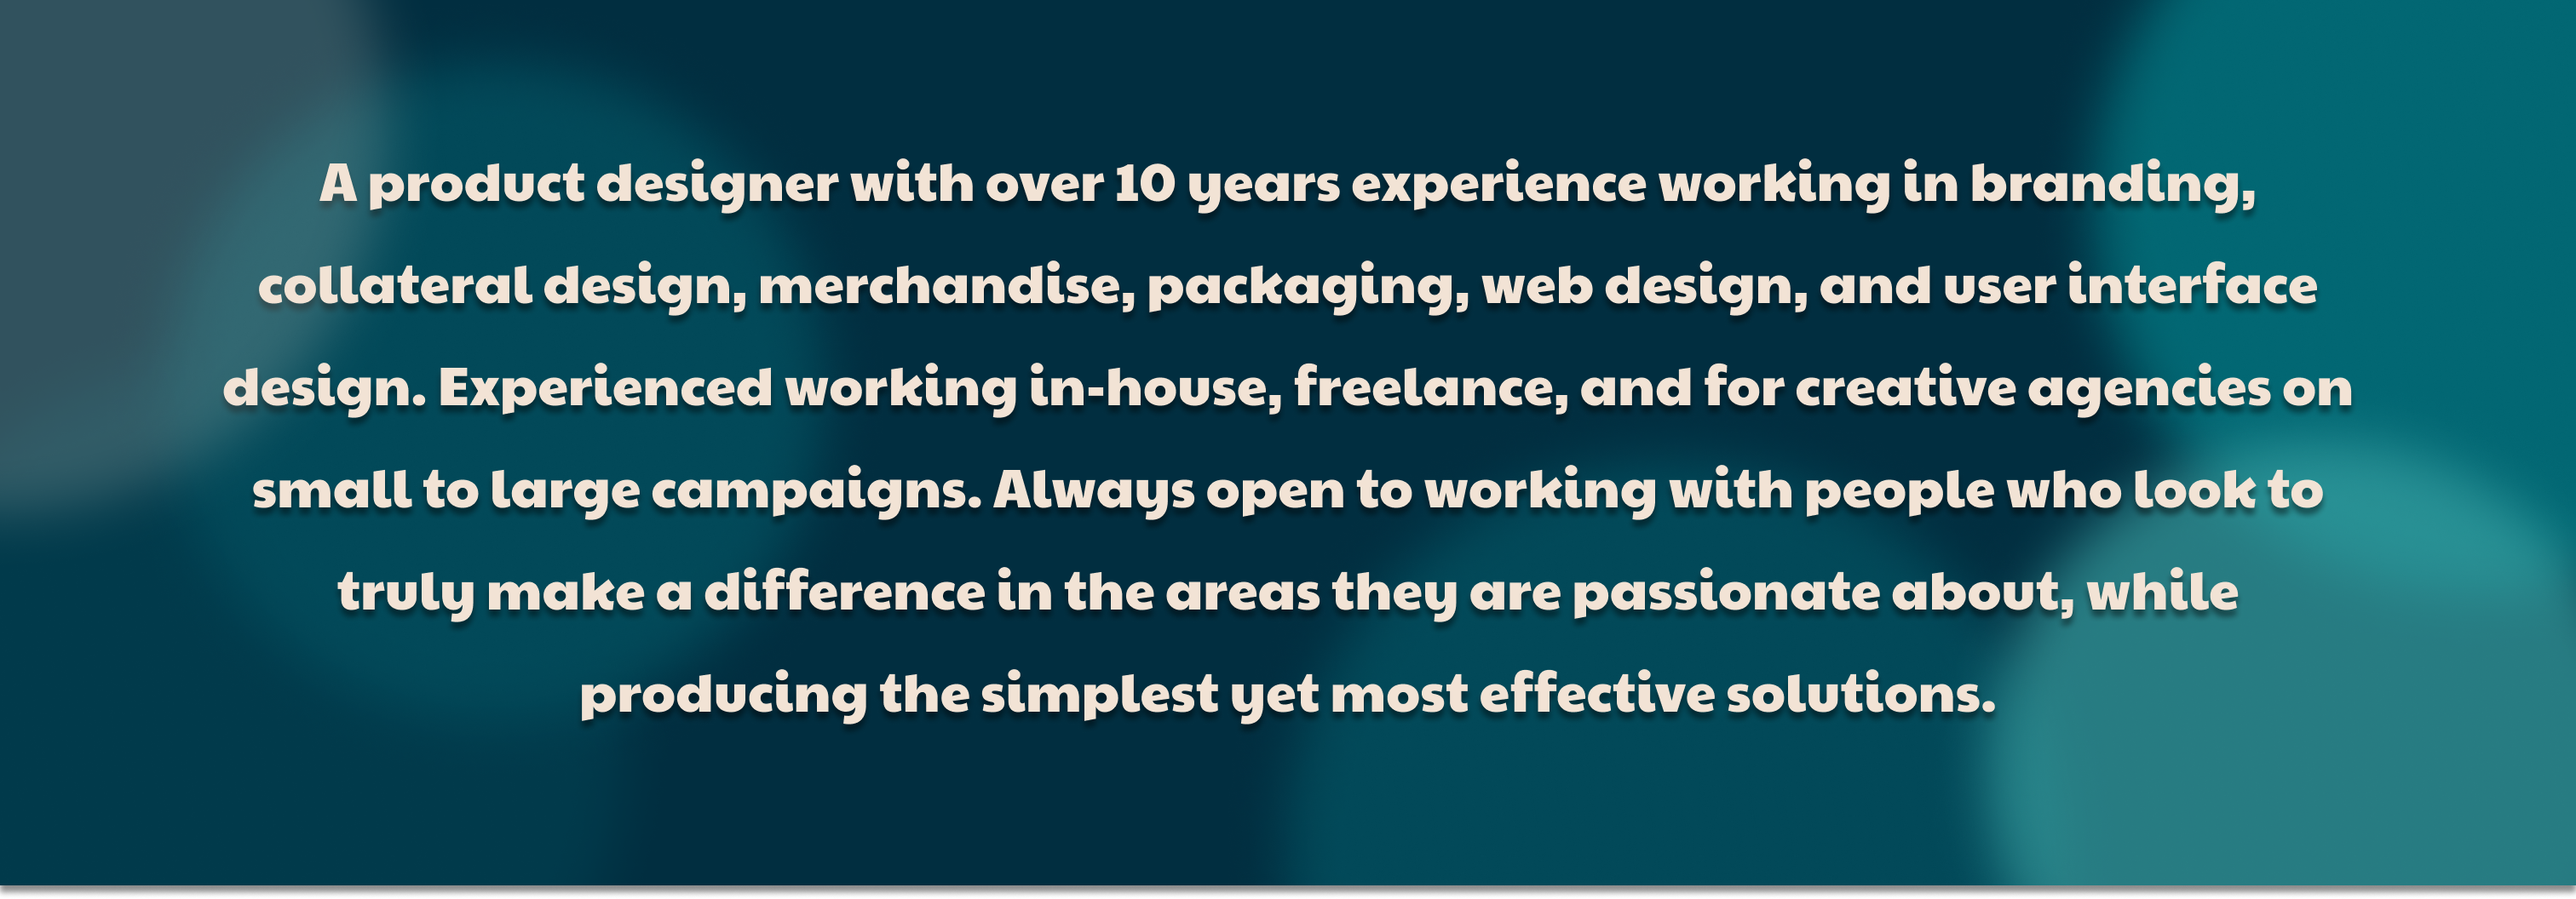
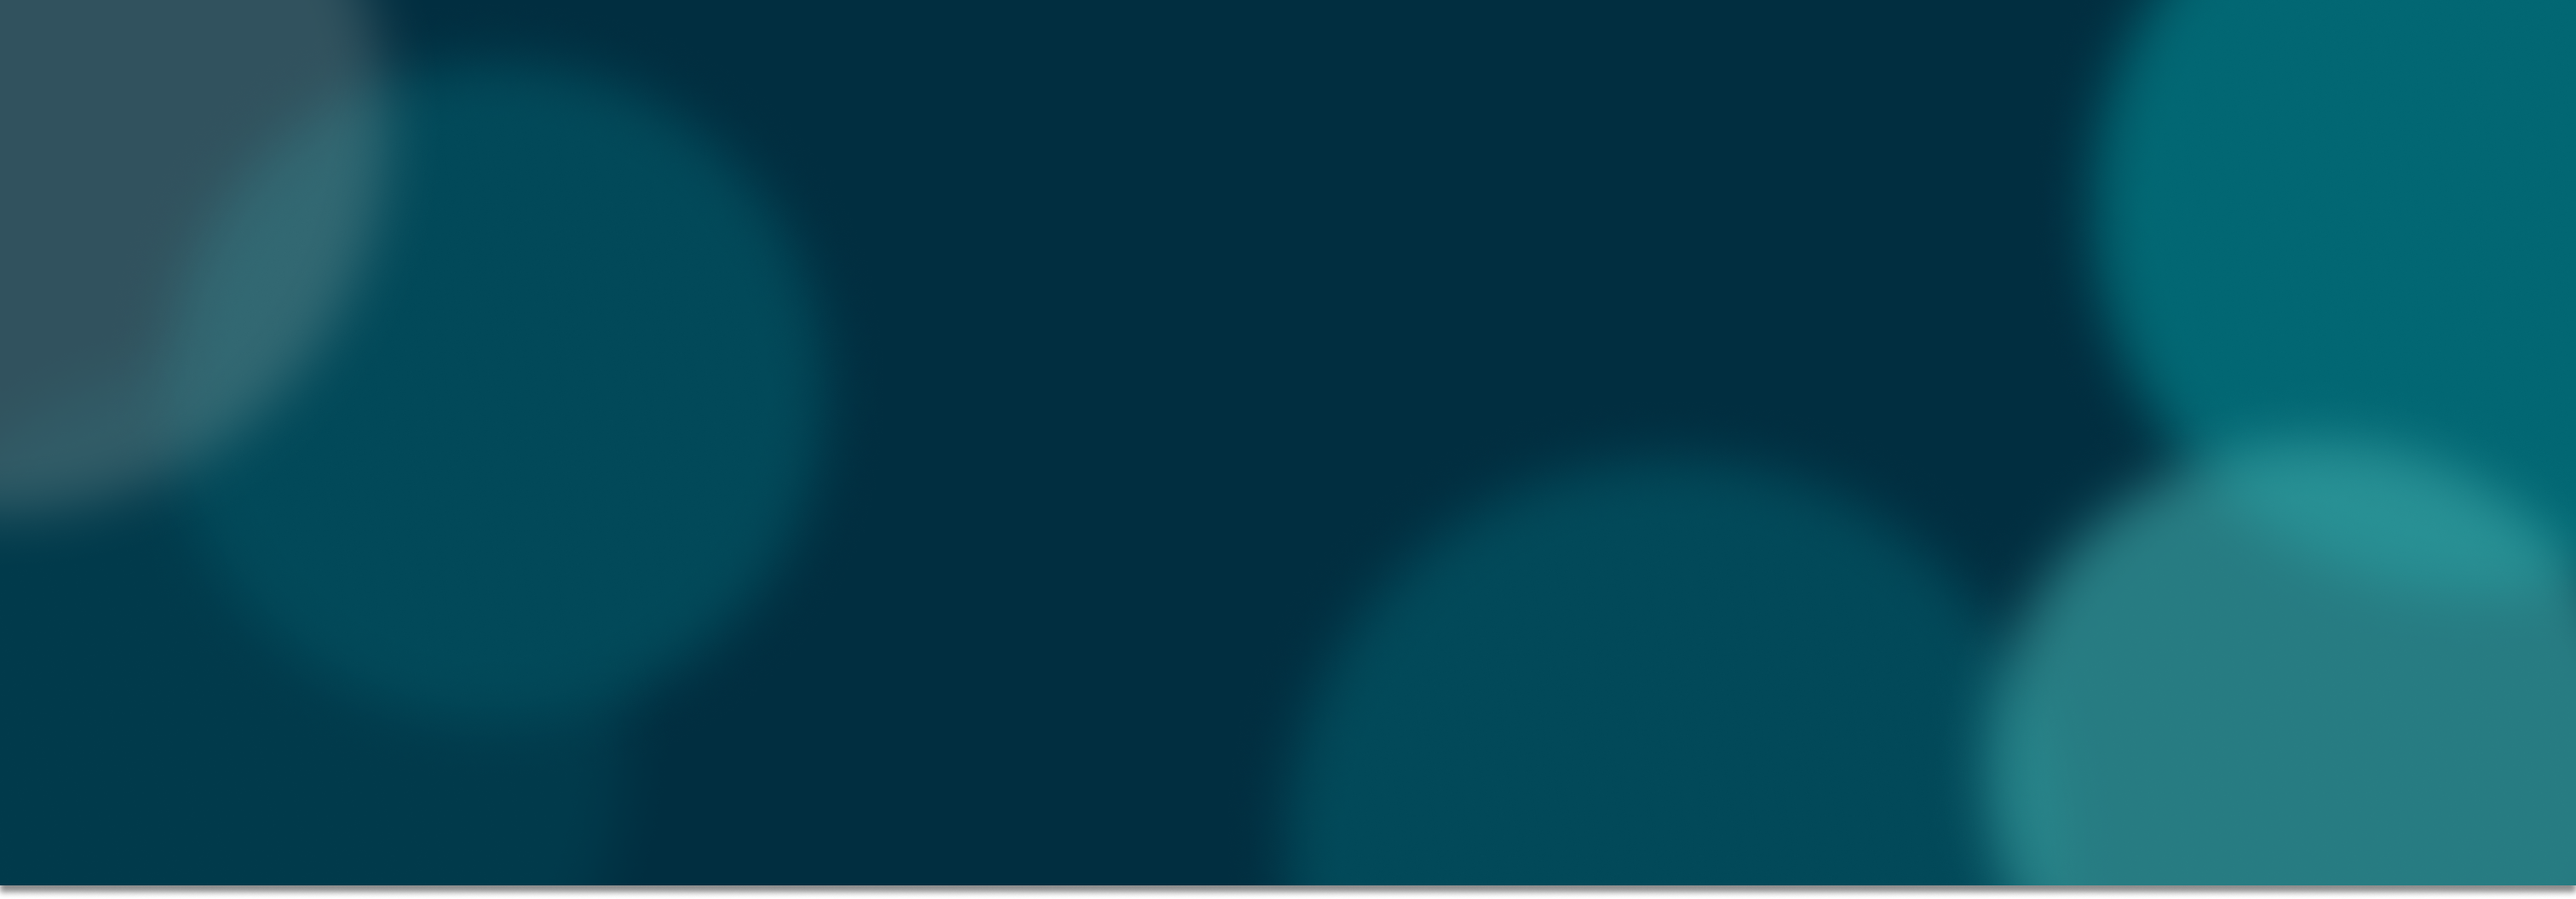
1.12.23 - Update 3 - Submitted

diff --git a/css/style.css b/css/style.css
@@ -45,6 +45,12 @@ h1 {
     font-weight: 800;
 }
 
+h2 {
+    text-align: center;
+    font-family: 'Paytone One', sans-serif;    
+    font-weight: 800;
+}
+
 h3 {
     text-align: left;
     font-family: 'Paytone One', sans-serif;    
@@ -102,9 +108,18 @@ ul {
     padding-right: 12px;
 }
 
-.aboutMe img {
-    width: 100%;
+.aboutMe {
+    /* min-height: 350px ; */
+    padding: 12px;
+    color: #F2E3D5;
+    background-image: url('/Users/jb/Documents/MyCode/18 Week/UX_UI_HW_18/assets/images/ABOUT ME.png');
+    background-size: 100%;
+    background-repeat: no-repeat;
 }
+
+/* .aboutMe img {
+    width: 100%;
+} */
 
 button {
     background-color:#012E40;
@@ -133,12 +148,6 @@ footer {
     color: aquamarine;
 }
 
-/* .parent-container {
-    display: flex;
-    align-items: center;
-    justify-content: center;
-} */
-
 .flexContainer {
     display: flex;
     flex-direction: row;
@@ -153,6 +162,10 @@ footer {
     background-color:#F2E3D5;
     padding: 12px;
     color:#012E40
+}
+
+.mySkills img {
+    border-radius: 4px;
 }
 
 #skill  {
@@ -173,6 +186,7 @@ footer {
 .myWork button {
     background-color: #3CA6A6;
     color: #012E40;
+    float: right;
     font-family: 'Paytone One', sans-serif;
 }
 
@@ -183,14 +197,11 @@ footer {
     grid-template-areas:
     "img1 content1"
     "img2 content2"
-    "img3 content3"
-    ;
+    "img3 content3";
   }
 
   .workGrid img {
     width: 100%;
-    max-width: 400px;
-    padding-bottom: 12px;
     margin: 0 auto;
     display: block;
   }
@@ -207,9 +218,9 @@ footer {
     grid-area: img3;
   }
   
-  /* .img1, .img2, .img3, .content1, .content2, .content3 {
+.content1, .content2, .content3 {
     padding: 12px;
-  } */
+  }
   
   .content1 {
     grid-area: content1;

diff --git a/index.html b/index.html
@@ -33,13 +33,12 @@
     <div class="content">
         <img src="assets/images/JB.png">
         <h5>UX & UI design with an affinity for human-focused solutions and a penchant for producing experiences truly worthy of our digital overlords.</h5>
-        <!-- <button>Download Resume</button> -->
     </div>
    </section>
 
-   <section class="aboutMe">
-    <div>
-        <img src="assets/images/ABOUT ME.png"
+   <section>
+    <div class="aboutMe">
+        <h2>A product designer with over 10 years experience working in branding, collateral design, merchandise, packaging, web design, and user interface design. Experienced working in-house, freelance, and for creative agencies on small to large campaigns. Always open to working with people who look to truly make a difference in the areas they are passionate about, while producing the simplest yet most effective solutions.</h2>        
     </div>
    </section>
 
